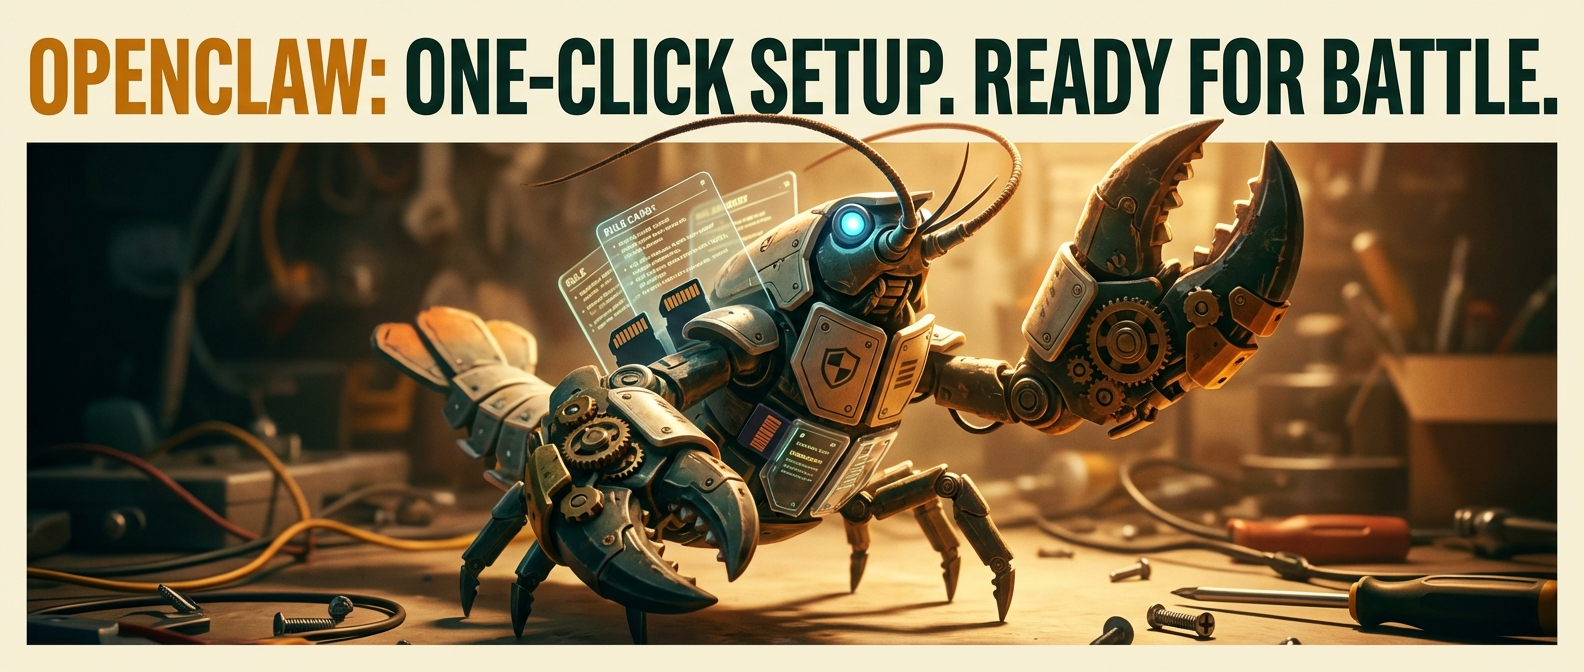
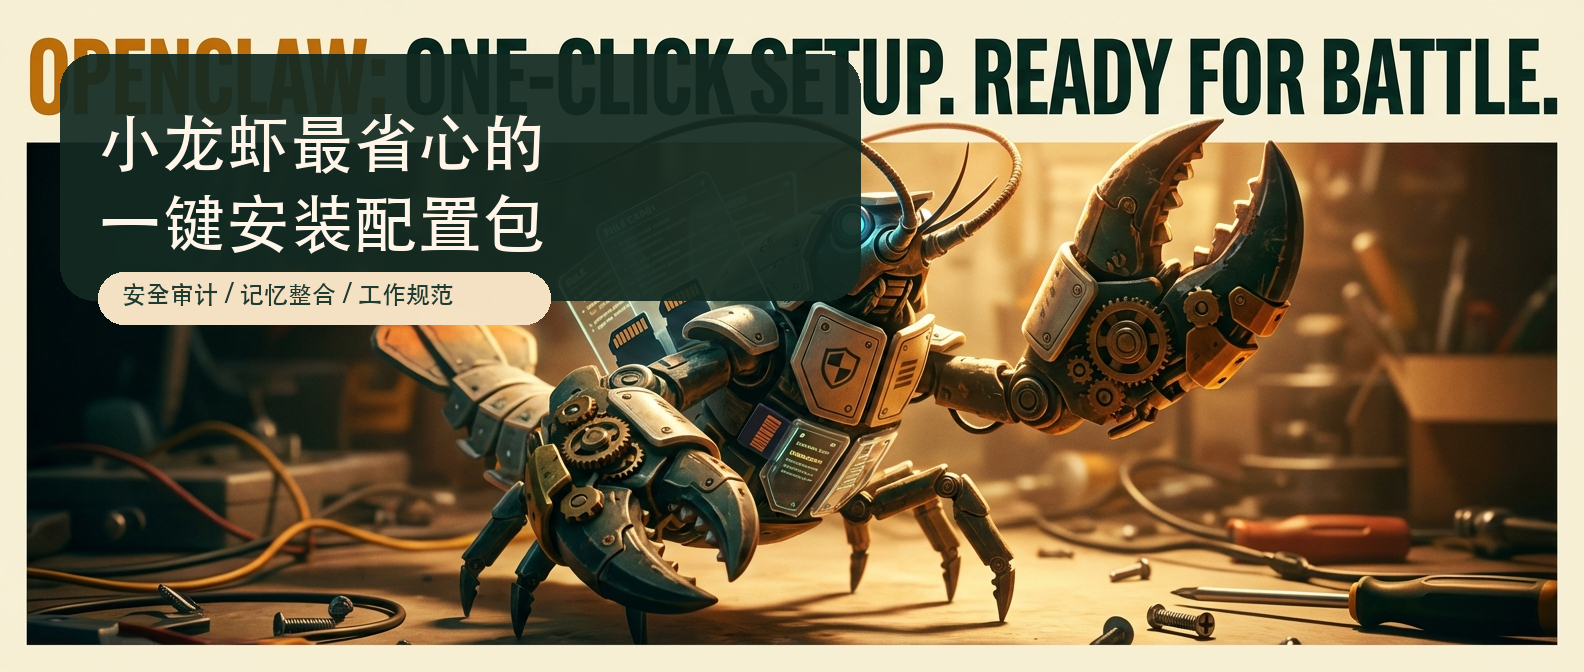
Add Chinese text overlays to images

Changed region(s): [[0.0309, 0.0625, 0.5568, 0.5]]

diff --git a/2026/03/15/article.md b/2026/03/15/article.md
@@ -1,6 +1,6 @@
 # 小龙虾最省心的一键安装配置包来了：安全审计、记忆整合、工作规范一次装好
 
-![封面图](https://dwdestiny.github.io/dang-wei-content/2026/03/15/images/cover.png)
+![封面图](images/cover.png)
 
 我一开始也以为，小龙虾装好就差不多了。
 
@@ -20,7 +20,7 @@
 
 这事干一两次还行。一旦你真的开始长期用，或者开始给不同场景配不同的虾，就会越来越烦。
 
-![安装不是最烦的，装完之后那堆碎事才是](https://dwdestiny.github.io/dang-wei-content/2026/03/15/images/setup-pain.png)
+![安装不是最烦的，装完之后那堆碎事才是](images/setup-pain.png)
 
 所以我后来想得很简单：与其每次重新摸，不如干脆把这套最通用、最容易被忽略、但后面一定会反复用到的底座，直接收成一个一键安装包。
 
@@ -40,7 +40,7 @@
 
 ## 这套包，一次帮你补四层底座
 
-![四层底座图](https://dwdestiny.github.io/dang-wei-content/2026/03/15/images/four-foundations.png)
+![四层底座图](images/four-foundations.png)
 
 ### 1. 先把安全边界收起来
 
@@ -126,7 +126,7 @@
 
 把链接丢给小龙虾。让它帮你安装。装完直接进入战斗状态。
 
-![一句话安装，直接进入战斗状态](https://dwdestiny.github.io/dang-wei-content/2026/03/15/images/one-line-install.png)
+![一句话安装，直接进入战斗状态](images/one-line-install.png)
 
 该补的安全、记忆、规范、轻量自动维护，这些底层东西先一次补上。你不用再自己一条条补，更不用每次都从零重新摸一遍。
 

diff --git a/2026/03/15/visual-brief.md b/2026/03/15/visual-brief.md
@@ -7,6 +7,7 @@
 - 统一元素：小龙虾、工作台、装备模块、记忆卡片、安全护盾、规则卡、任务面板
 - 封面图与正文配图统一逻辑：都围绕“装完不是结束，装完就能打”
 - 不要走的视觉方向：纯文字海报、蓝紫赛博风、PPT 流程图风、幼态卡通风、纯图标拼贴风
+- 文本规则：面向中国用户时，配图中的文字默认优先中文表达；术语、专有名词、项目名、命令名可保留英文，不要为了全中文硬翻
 
 ## 封面图 brief
 - 图的目的：一眼让人知道，这不是普通安装教程，而是“装完 OpenClaw 后，直接进入战斗状态的一键底座包”
